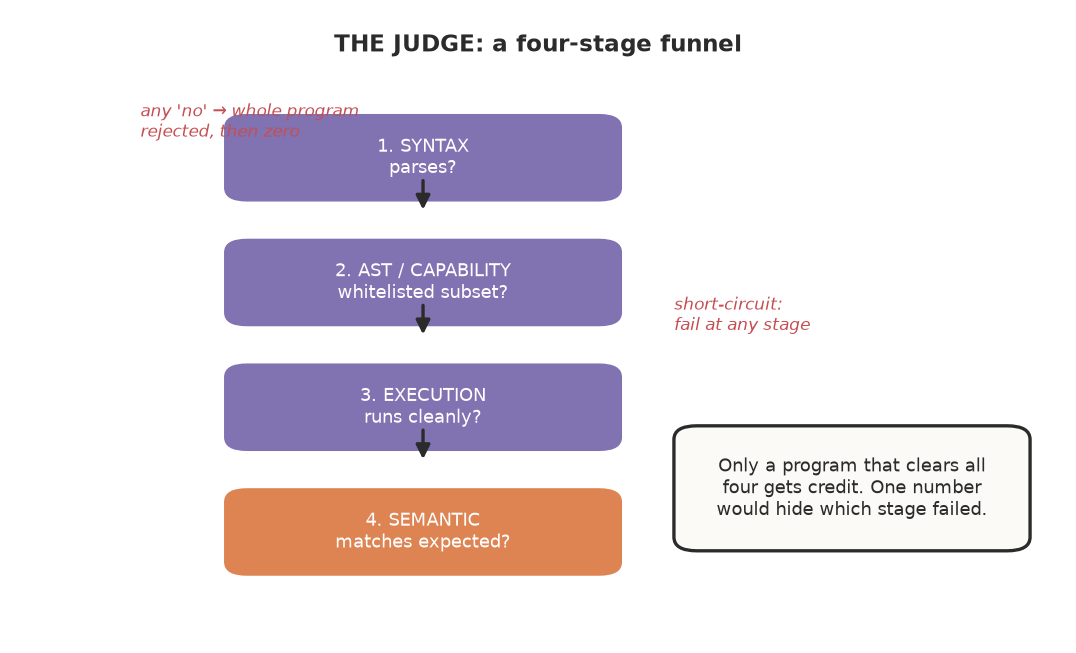
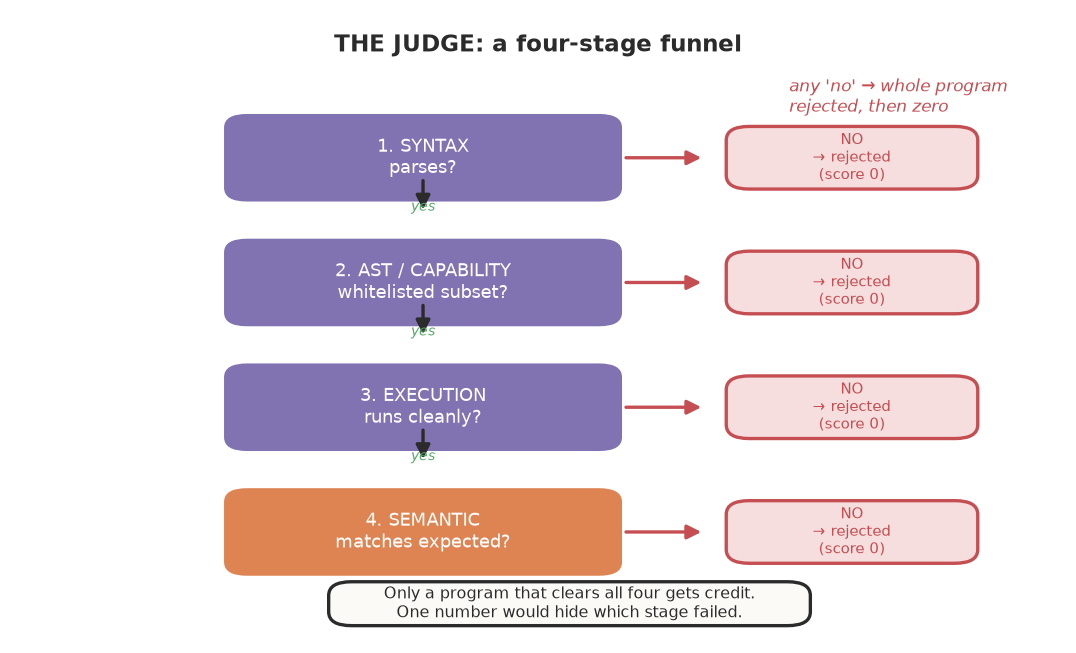
Add explicit YES/NO failure-exit branches to judge figure (fig_judge)
Per review D04: each of the four judge stages now has an explicit right-hand
'NO -> rejected (score 0)' branch and a green 'yes' continuation label, so a zero
is attributable to a specific stage rather than a single opaque number. Moved the
call-out below the funnel and the 'any no' note to the margin so nothing overlaps.

Book rebuilt to 151 pages. 48 tests pass.

diff --git a/scripts/make_concept_figures.py b/scripts/make_concept_figures.py
@@ -184,18 +184,23 @@ def fig_judge():
         (30, "3. EXECUTION\nruns cleanly?", PURPLE),
         (10, "4. SEMANTIC\nmatches expected?", ORANGE),
     ]
-    # put the stage column on the LEFT half, notes in a clean right column
+    # put the stage column on the LEFT half, explicit YES/NO branches on the right.
     for y, lab, c in stages:
         box(ax, 20, y, 38, 14, lab, fc=c, fs=8.5)
+        # "NO -> reject" branch off the right of every stage
+        arrow(ax, 58, y + 7, 66, y + 7, color=RED)
+        box(ax, 68, y + 2, 24, 10, "NO\n→ rejected\n(score 0)", fc="#f6dede", ec=RED, fs=7, tc=RED)
+        # "YES" tag between stages (except after the last)
+        if y > 10:
+            ax.text(39, y - 1.5, "yes", ha="center", fontsize=6.5, color=GREEN, style="italic")
     # short clean arrows in the gap between boxes
     for i in range(3):
-        y = 70 - (i * 20)          # top box bottom
-        arrow(ax, 39, y + 4, 39, y - 2)  # down into next box
-    note(ax, 12, 86, "any 'no' → whole program\nrejected, then zero", fs=8, color=RED)
-    note(ax, 63, 55, "short-circuit:\nfail at any stage", fs=8, color=RED)
-    box(ax, 63, 14, 34, 20,
-        "Only a program that clears all\nfour gets credit. One number\nwould hide which stage failed.",
-        fc="#fbfaf6", ec=INK, fs=8.5, tc=INK)
+        y = 70 - (i * 20)
+        arrow(ax, 39, y + 4, 39, y - 2)
+    note(ax, 74, 90, "any 'no' → whole program\nrejected, then zero", fs=8, color=RED)
+    box(ax, 30, 2, 46, 7,
+        "Only a program that clears all four gets credit.\nOne number would hide which stage failed.",
+        fc="#fbfaf6", ec=INK, fs=7.5, tc=INK)
     save(fig, "fig_judge.png")
 
 
